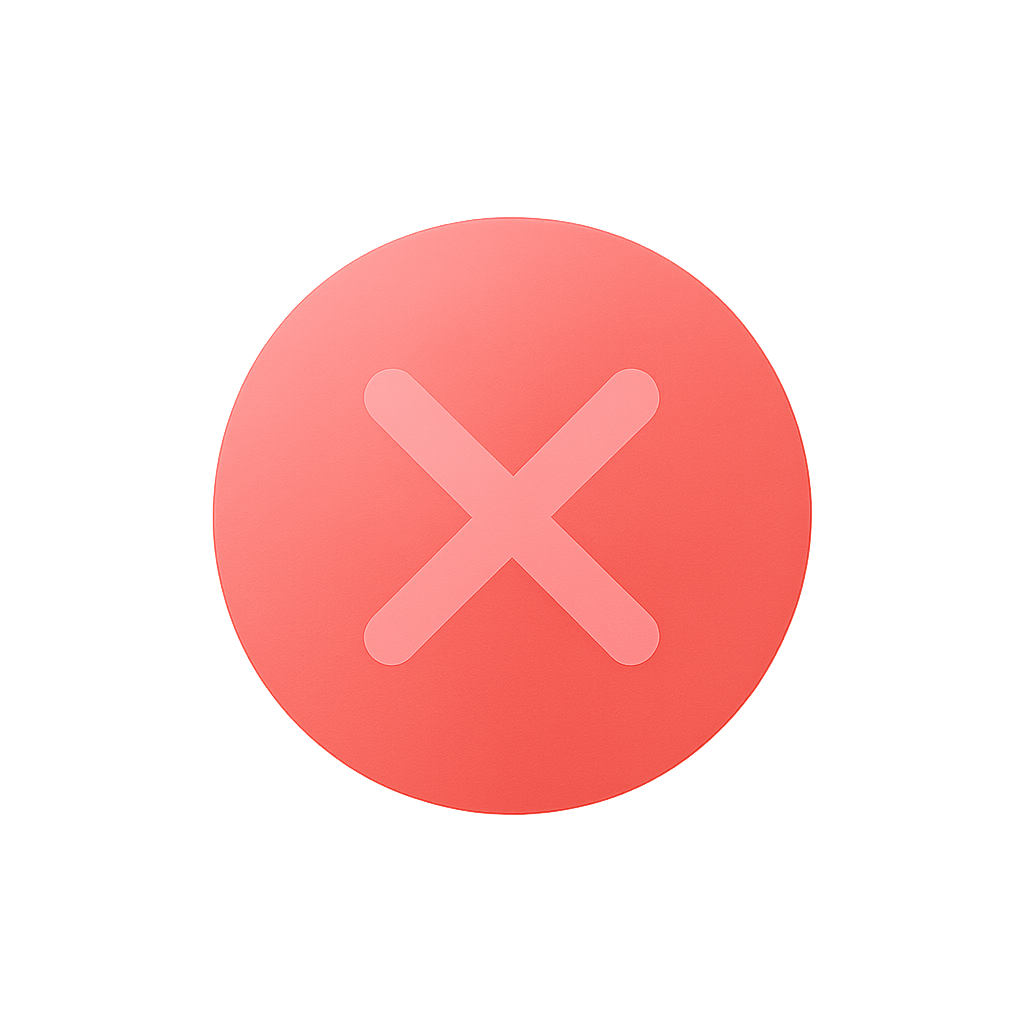
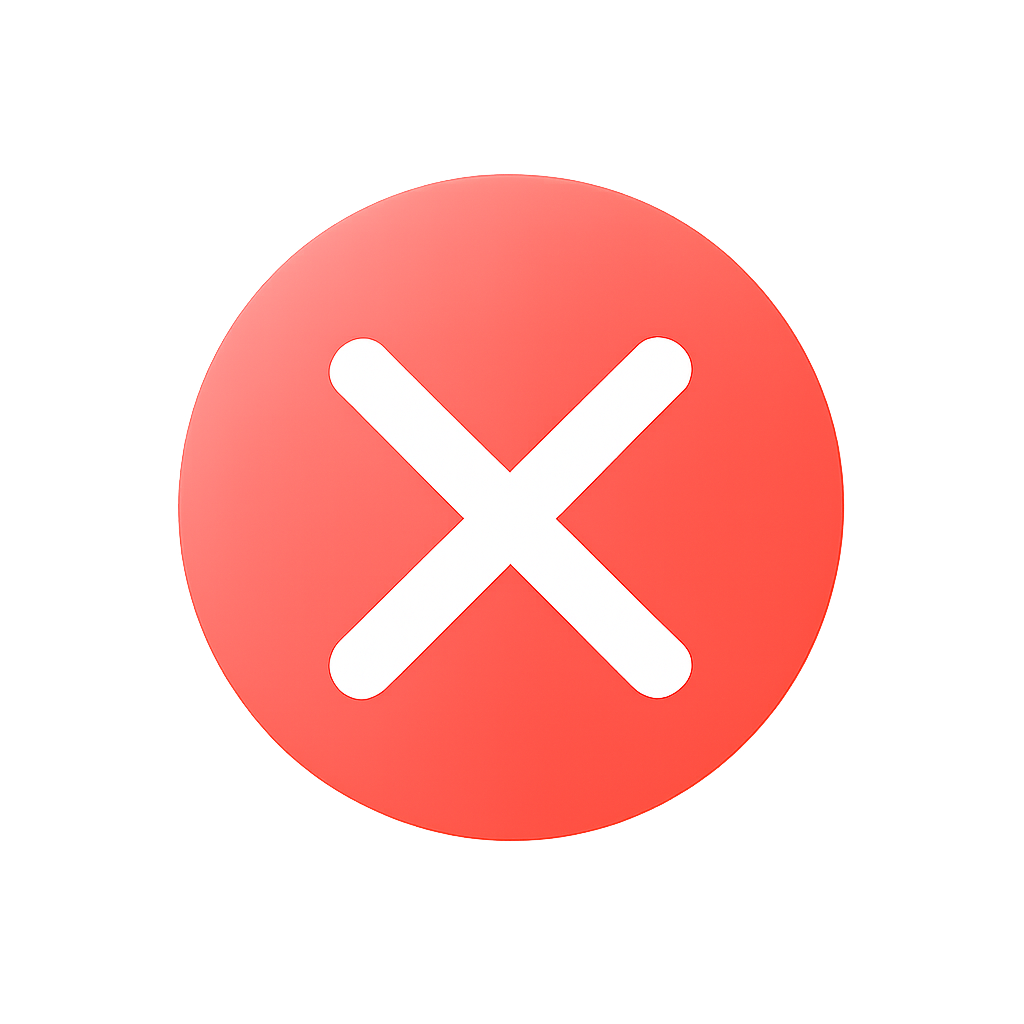
resize analysis board

Changed region(s): [[0.1562, 0.1562, 0.8438, 0.8438]]

diff --git a/src/gui/analysis/moves_tab.py b/src/gui/analysis/moves_tab.py
@@ -26,9 +26,10 @@ def _create_moves_tab_content(view_instance, moves_frame_parent, move_evaluation
     # Create frame for mini-board (right side)
     board_frame = tk.Frame(paned_window, bg=config.COLORS["background"], padx=10, pady=10)
     
-    # Add both frames to the paned window
-    paned_window.add(moves_frame, weight=1)
-    paned_window.add(board_frame, weight=1)
+    # Add both frames to the paned window with adjusted weights
+    # Give the moves frame more space since the board is now larger
+    paned_window.add(moves_frame, weight=3)  # Increased from 1 to 3
+    paned_window.add(board_frame, weight=2)  # Increased from 1 to 2
     
     # Count errors and mistakes for the badge
     error_moves = []

diff --git a/src/gui/analysis/mini_board.py b/src/gui/analysis/mini_board.py
@@ -12,12 +12,12 @@ class MiniChessBoard(tk.Canvas):
         super().__init__(parent, **kwargs)
         self.parent = parent
         self.configure(bg="white", highlightthickness=1, highlightbackground="#E0E0E0")
-        self.square_size = 40  # Default square size
-        self.margin = 15      # Margin for coordinates
+        self.square_size = 70  # Increased from 60 to 70 for an even larger board
+        self.margin = 25      # Increased from 20 to 25 for better proportions
         self.flipped = False  # Track board orientation
         
         # Modern styling for coordinate markers
-        self.marker_font = font.Font(family="Segoe UI", size=9, weight="normal")
+        self.marker_font = font.Font(family="Segoe UI", size=11, weight="normal")  # Increased font size
         self.light_marker_color = "#8596AA"  # Subtle blue-gray that works on both light and dark squares
         self.dark_marker_color = "#2A3542"   # Darker shade for contrast on light squares
         

diff --git a/src/utils/config.py b/src/utils/config.py
@@ -3,6 +3,8 @@ Configuration settings for the chess application.
 Contains color schemes, board dimensions, and other constants.
 """
 import os
+import tkinter as tk
+from tkinter import font
 
 # Board configuration
 DEFAULT_SQUARE_SIZE = 75
@@ -20,7 +22,7 @@ COLORS = {
     "check": "#FF5C5C",  
     
     # UI colors
-    "background": "#F0F2F5",  # Light gray background
+    "background": "#EAEAEA",  # Light gray background
     "primary_text": "#303F9F",  # Dark blue text
     "secondary_text": "#000000",  # Black text
     

diff --git a/src/gui/analysis_view.py b/src/gui/analysis_view.py
@@ -97,7 +97,8 @@ class GameAnalysisView:
         # Create analysis window
         analysis_window = tk.Toplevel(self.parent)
         analysis_window.title("Bilan de Partie")
-        analysis_window.geometry("1200x900")
+        # Increased window size to accommodate the larger board and move cards
+        analysis_window.geometry("1400x1000")
         analysis_window.resizable(True, True)
         analysis_window.configure(bg=config.COLORS["background"])
 